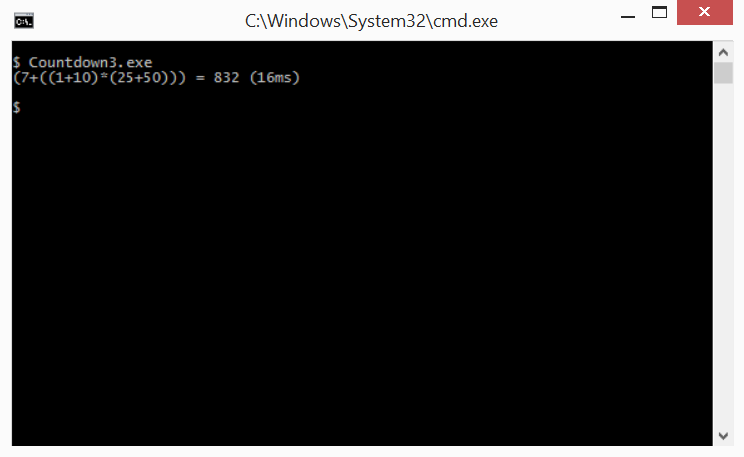
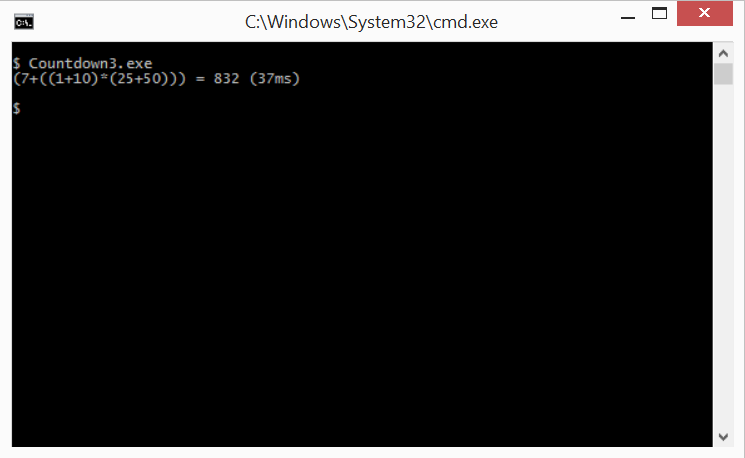
I was passing the wrong target in the C# versions - should have been 831

Changed region(s): [[0.0, 0.0, 1.0, 1.0], [0.0, 0.1225, 0.4019, 0.1838], [0.0, 0.2144, 0.0309, 0.2451]]

diff --git a/CSharp/Countdown1/Program.cs b/CSharp/Countdown1/Program.cs
@@ -213,7 +213,7 @@ namespace Countdown1
             var numbers = new[] { 1, 3, 7, 10, 25, 50 };
             var sw = new Stopwatch();
             sw.Start();
-            var answer = Countdown(832, numbers);
+            var answer = Countdown(831, numbers);
             sw.Stop();
             Console.WriteLine("{0} = {1} ({2}ms)", answer.Item1, answer.Item2, sw.ElapsedMilliseconds);
         }

diff --git a/CSharp/Countdown2/Program.cs b/CSharp/Countdown2/Program.cs
@@ -191,7 +191,7 @@ namespace Countdown2
             var numbers = new[] { 1, 3, 7, 10, 25, 50 };
             var sw = new Stopwatch();
             sw.Start();
-            var answer = Countdown(832, numbers);
+            var answer = Countdown(831, numbers);
             sw.Stop();
             Console.WriteLine("{0} = {1} ({2}ms)", answer.Item1, answer.Item2, sw.ElapsedMilliseconds);
         }

diff --git a/CSharp/Countdown3/Program.cs b/CSharp/Countdown3/Program.cs
@@ -223,7 +223,7 @@ namespace Countdown3
             var numbers = new[] { 1, 3, 7, 10, 25, 50 };
             var sw = new Stopwatch();
             sw.Start();
-            var answer = Countdown(832, numbers);
+            var answer = Countdown(831, numbers);
             sw.Stop();
             Console.WriteLine("{0} = {1} ({2}ms)", answer.Item1, answer.Item2, sw.ElapsedMilliseconds);
         }

diff --git a/README.md b/README.md
@@ -84,7 +84,10 @@ private static Tuple<Expr, Value> Nearest(Value n, IEnumerable<Tuple<Expr, Value
 }
 ```
 
-Here is a screenshot of the C# version of Countdown3:
+Here is a screenshot of the C# version of Countdown3 when:
+
+* the input numbers are <code>1, 3, 7, 10, 25, 50</code>
+* the target is <code>831</code> (there is no exact solution - the best answer is <code>832</code>)
 
 ![Countdown3 (C#)](https://raw.githubusercontent.com/taylorjg/Countdown/master/Images/Countdown3_CSharp_Screenshot.png "Countdown3 (C#)")
 
